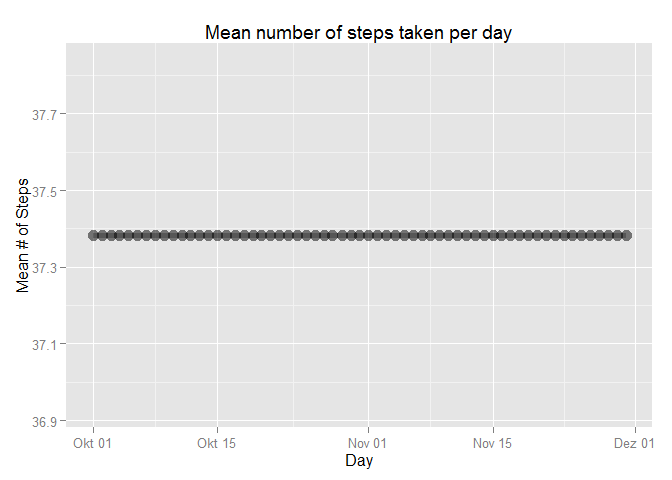
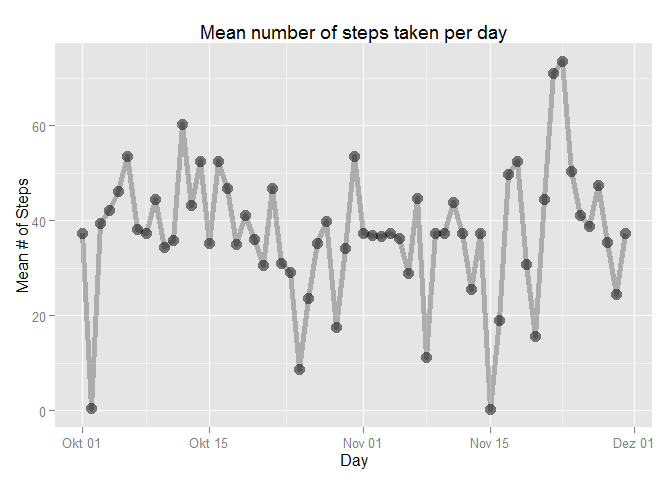
Added imputing

diff --git a/PA1_template.html b/PA1_template.html
@@ -210,41 +210,41 @@ ggplot(averageSteps, aes(interval, mn)) +
 <h2>Imputing missing values</h2>
 <p>Note that there are a number of days/intervals where there are missing values (coded as NA). The presence of missing days may introduce bias into some calculations or summaries of the data.</p>
 <p>1.Calculate and report the total number of missing values in the dataset (i.e. the total number of rows with NAs)</p>
-<pre class="r"><code>data %&gt;% filter(!is.na(steps) &amp; !is.na(interval)) %&gt;% summarise(count = n()) %&gt;% select(count)</code></pre>
+<pre class="r"><code>data %&gt;% filter(is.na(steps)) %&gt;% summarise(count = n()) %&gt;% select(count)</code></pre>
 <pre><code>## Source: local data frame [1 x 1]
 ## 
 ##   count
-## 1 15264</code></pre>
+## 1  2304</code></pre>
 <p>2.Devise a strategy for filling in all of the missing values in the dataset. The strategy does not need to be sophisticated. For example, you could use the mean/median for that day, or the mean for that 5-minute interval, etc.</p>
 <p>3.Create a new dataset that is equal to the original dataset but with the missing data filled in.</p>
 <pre class="r"><code>meanInt &lt;- data %&gt;% filter(!is.na(steps)) %&gt;% group_by(interval) %&gt;% summarise(mn = mean(steps))
-impute = data %&gt;% left_join(meanInt, by=&quot;interval&quot;) %&gt;% select(steps=ifelse(is.na(steps), steps, mn), date, interval)
+impute = data %&gt;% left_join(meanInt, by=&quot;interval&quot;) %&gt;% mutate(stepsM=ifelse(is.na(steps), mn, steps)) %&gt;% select(stepsM, date, interval)
 str(impute)</code></pre>
 <pre><code>## Classes 'tbl_df', 'tbl' and 'data.frame':    17568 obs. of  3 variables:
-##  $ steps   : num  1.717 0.3396 0.1321 0.1509 0.0755 ...
+##  $ stepsM  : num  1.717 0.3396 0.1321 0.1509 0.0755 ...
 ##  $ date    : POSIXct, format: &quot;2012-10-01&quot; &quot;2012-10-01&quot; ...
 ##  $ interval: num  0 5 10 15 20 25 30 35 40 45 ...</code></pre>
 <p>4.Make a histogram of the total number of steps taken each day and Calculate and report the mean and median total number of steps taken per day. Do these values differ from the estimates from the first part of the assignment? What is the impact of imputing missing data on the estimates of the total daily number of steps?</p>
 <div id="mean-1" class="section level3">
 <h3>Mean</h3>
-<pre class="r"><code>meanStepsPerDay &lt;- impute  %&gt;% group_by(date) %&gt;% summarize(mn = mean(steps))
+<pre class="r"><code>meanStepsPerDay &lt;- impute  %&gt;% group_by(date) %&gt;% summarize(mn = mean(stepsM))
 ggplot(meanStepsPerDay, aes(date, mn)) +
       geom_line(size=2, alpha=1/4) +
       geom_point(size = 4, alpha = 1/2)  +  
       labs(title = &quot;Mean number of steps taken per day&quot;) +
       labs(x = &quot;Day&quot;, y = &quot;Mean # of Steps&quot;)</code></pre>
[2 lines of base64/hex data omitted]
 <pre class="r"><code>rm(meanStepsPerDay)</code></pre>
 </div>
 <div id="median-1" class="section level3">
 <h3>Median</h3>
-<pre class="r"><code>medianStepsPerDay &lt;- impute %&gt;% filter(steps &gt; 0) %&gt;% group_by(date) %&gt;% summarize(mn = median(steps))
+<pre class="r"><code>medianStepsPerDay &lt;- impute %&gt;% filter(stepsM &gt; 0) %&gt;% group_by(date) %&gt;% summarize(mn = median(stepsM))
 ggplot(medianStepsPerDay, aes(date, mn)) +
       geom_line(size=2, alpha=1/4) +
       geom_point(size = 4, alpha = 1/2)  +  
       labs(title = &quot;Median number of steps taken per day&quot;) +
       labs(x = &quot;Day&quot;, y = &quot;Median # of Steps&quot;)</code></pre>
[2 lines of base64/hex data omitted]
 <pre class="r"><code>rm(medianStepsPerDay)</code></pre>
 </div>
 </div>

diff --git a/PA1_template.md b/PA1_template.md
@@ -213,14 +213,14 @@ Note that there are a number of days/intervals where there are missing values (c
 1.Calculate and report the total number of missing values in the dataset (i.e. the total number of rows with NAs)
 
 ```r
-data %>% filter(!is.na(steps) & !is.na(interval)) %>% summarise(count = n()) %>% select(count)
+data %>% filter(is.na(steps)) %>% summarise(count = n()) %>% select(count)
 ```
 
 ```
 ## Source: local data frame [1 x 1]
 ## 
 ##   count
-## 1 15264
+## 1  2304
 ```
 
 
@@ -233,13 +233,13 @@ data %>% filter(!is.na(steps) & !is.na(interval)) %>% summarise(count = n()) %>%
 
 ```r
 meanInt <- data %>% filter(!is.na(steps)) %>% group_by(interval) %>% summarise(mn = mean(steps))
-impute = data %>% left_join(meanInt, by="interval") %>% select(steps=ifelse(is.na(steps), steps, mn), date, interval)
+impute = data %>% left_join(meanInt, by="interval") %>% mutate(stepsM=ifelse(is.na(steps), mn, steps)) %>% select(stepsM, date, interval)
 str(impute)
 ```
 
 ```
 ## Classes 'tbl_df', 'tbl' and 'data.frame':	17568 obs. of  3 variables:
-##  $ steps   : num  1.717 0.3396 0.1321 0.1509 0.0755 ...
+##  $ stepsM  : num  1.717 0.3396 0.1321 0.1509 0.0755 ...
 ##  $ date    : POSIXct, format: "2012-10-01" "2012-10-01" ...
 ##  $ interval: num  0 5 10 15 20 25 30 35 40 45 ...
 ```
@@ -250,7 +250,7 @@ str(impute)
 ### Mean
 
 ```r
-meanStepsPerDay <- impute  %>% group_by(date) %>% summarize(mn = mean(steps))
+meanStepsPerDay <- impute  %>% group_by(date) %>% summarize(mn = mean(stepsM))
 ggplot(meanStepsPerDay, aes(date, mn)) +
       geom_line(size=2, alpha=1/4) +
       geom_point(size = 4, alpha = 1/2)  +  
@@ -268,7 +268,7 @@ rm(meanStepsPerDay)
 ### Median
 
 ```r
-medianStepsPerDay <- impute %>% filter(steps > 0) %>% group_by(date) %>% summarize(mn = median(steps))
+medianStepsPerDay <- impute %>% filter(stepsM > 0) %>% group_by(date) %>% summarize(mn = median(stepsM))
 ggplot(medianStepsPerDay, aes(date, mn)) +
       geom_line(size=2, alpha=1/4) +
       geom_point(size = 4, alpha = 1/2)  +  
